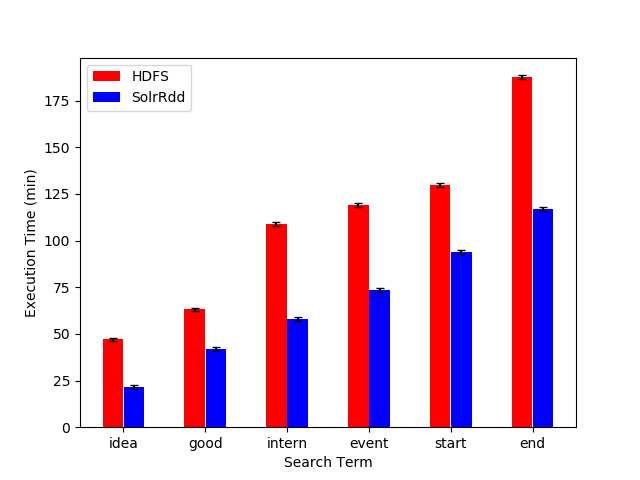
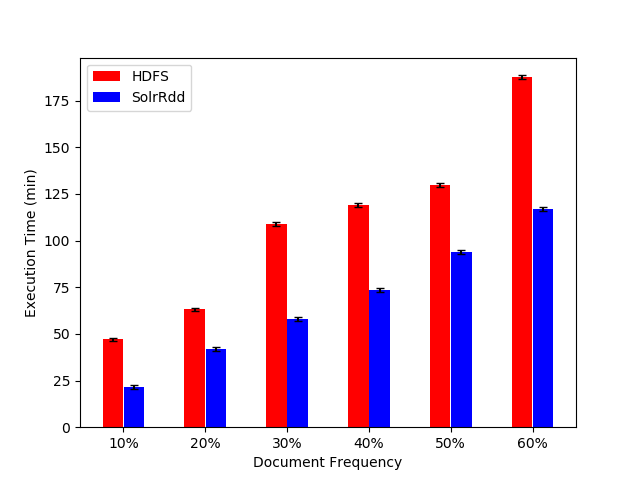
Change axis labels

diff --git a/graphs/scripts/sigir_graphs.py b/graphs/scripts/sigir_graphs.py
@@ -10,6 +10,7 @@ root_dir = os.getcwd()
 graphs_dir = os.path.join(root_dir, "graphs")
 
 terms = ["idea", "good", "intern", "event", "start", "end"]
+doc_freq = ['10%', '20%', '30%', '40%', '50%', '60%']
 
 ###
 
@@ -41,14 +42,14 @@ solr_ci[30] = [1, 1, 1, 1, 1, 1]
 
 ###
 
-X = np.arange(len(terms))
+X = np.arange(len(doc_freq))
 
 # 0ms
 plt.bar(X - 0.13, hdfs_runtime[0], color='r', width=0.25, yerr=hdfs_ci[0], capsize=3)
 plt.bar(X + 0.13, solr_runtime[0], color='b', width=0.25, yerr=solr_ci[0], capsize=3)
 
-plt.xticks(X, terms)
-plt.xlabel('Search Term')
+plt.xticks(X, doc_freq)
+plt.xlabel('Document Frequency')
 plt.ylabel('Execution Time (min)')
 plt.legend(['HDFS', 'SolrRdd'], loc='upper left')
 
@@ -60,8 +61,8 @@ plt.clf()
 plt.bar(X - 0.13, hdfs_runtime[3], color='r', width=0.25, yerr=hdfs_ci[3], capsize=3)
 plt.bar(X + 0.13, solr_runtime[3], color='b', width=0.25, yerr=solr_ci[3], capsize=3)
 
-plt.xticks(X, terms)
-plt.xlabel('Search Term')
+plt.xticks(X, doc_freq)
+plt.xlabel('Document Frequency')
 plt.ylabel('Execution Time (min)')
 plt.legend(['HDFS', 'SolrRdd'], loc='upper left')
 
@@ -73,8 +74,8 @@ plt.clf()
 plt.bar(X - 0.13, hdfs_runtime[30], color='r', width=0.25, yerr=hdfs_ci[30], capsize=3)
 plt.bar(X + 0.13, solr_runtime[30], color='b', width=0.25, yerr=solr_ci[30], capsize=3)
 
-plt.xticks(X, terms)
-plt.xlabel('Search Term')
+plt.xticks(X, doc_freq)
+plt.xlabel('Document Frequency')
 plt.ylabel('Execution Time (min)')
 plt.legend(['HDFS', 'SolrRdd'], loc='upper left')
 
